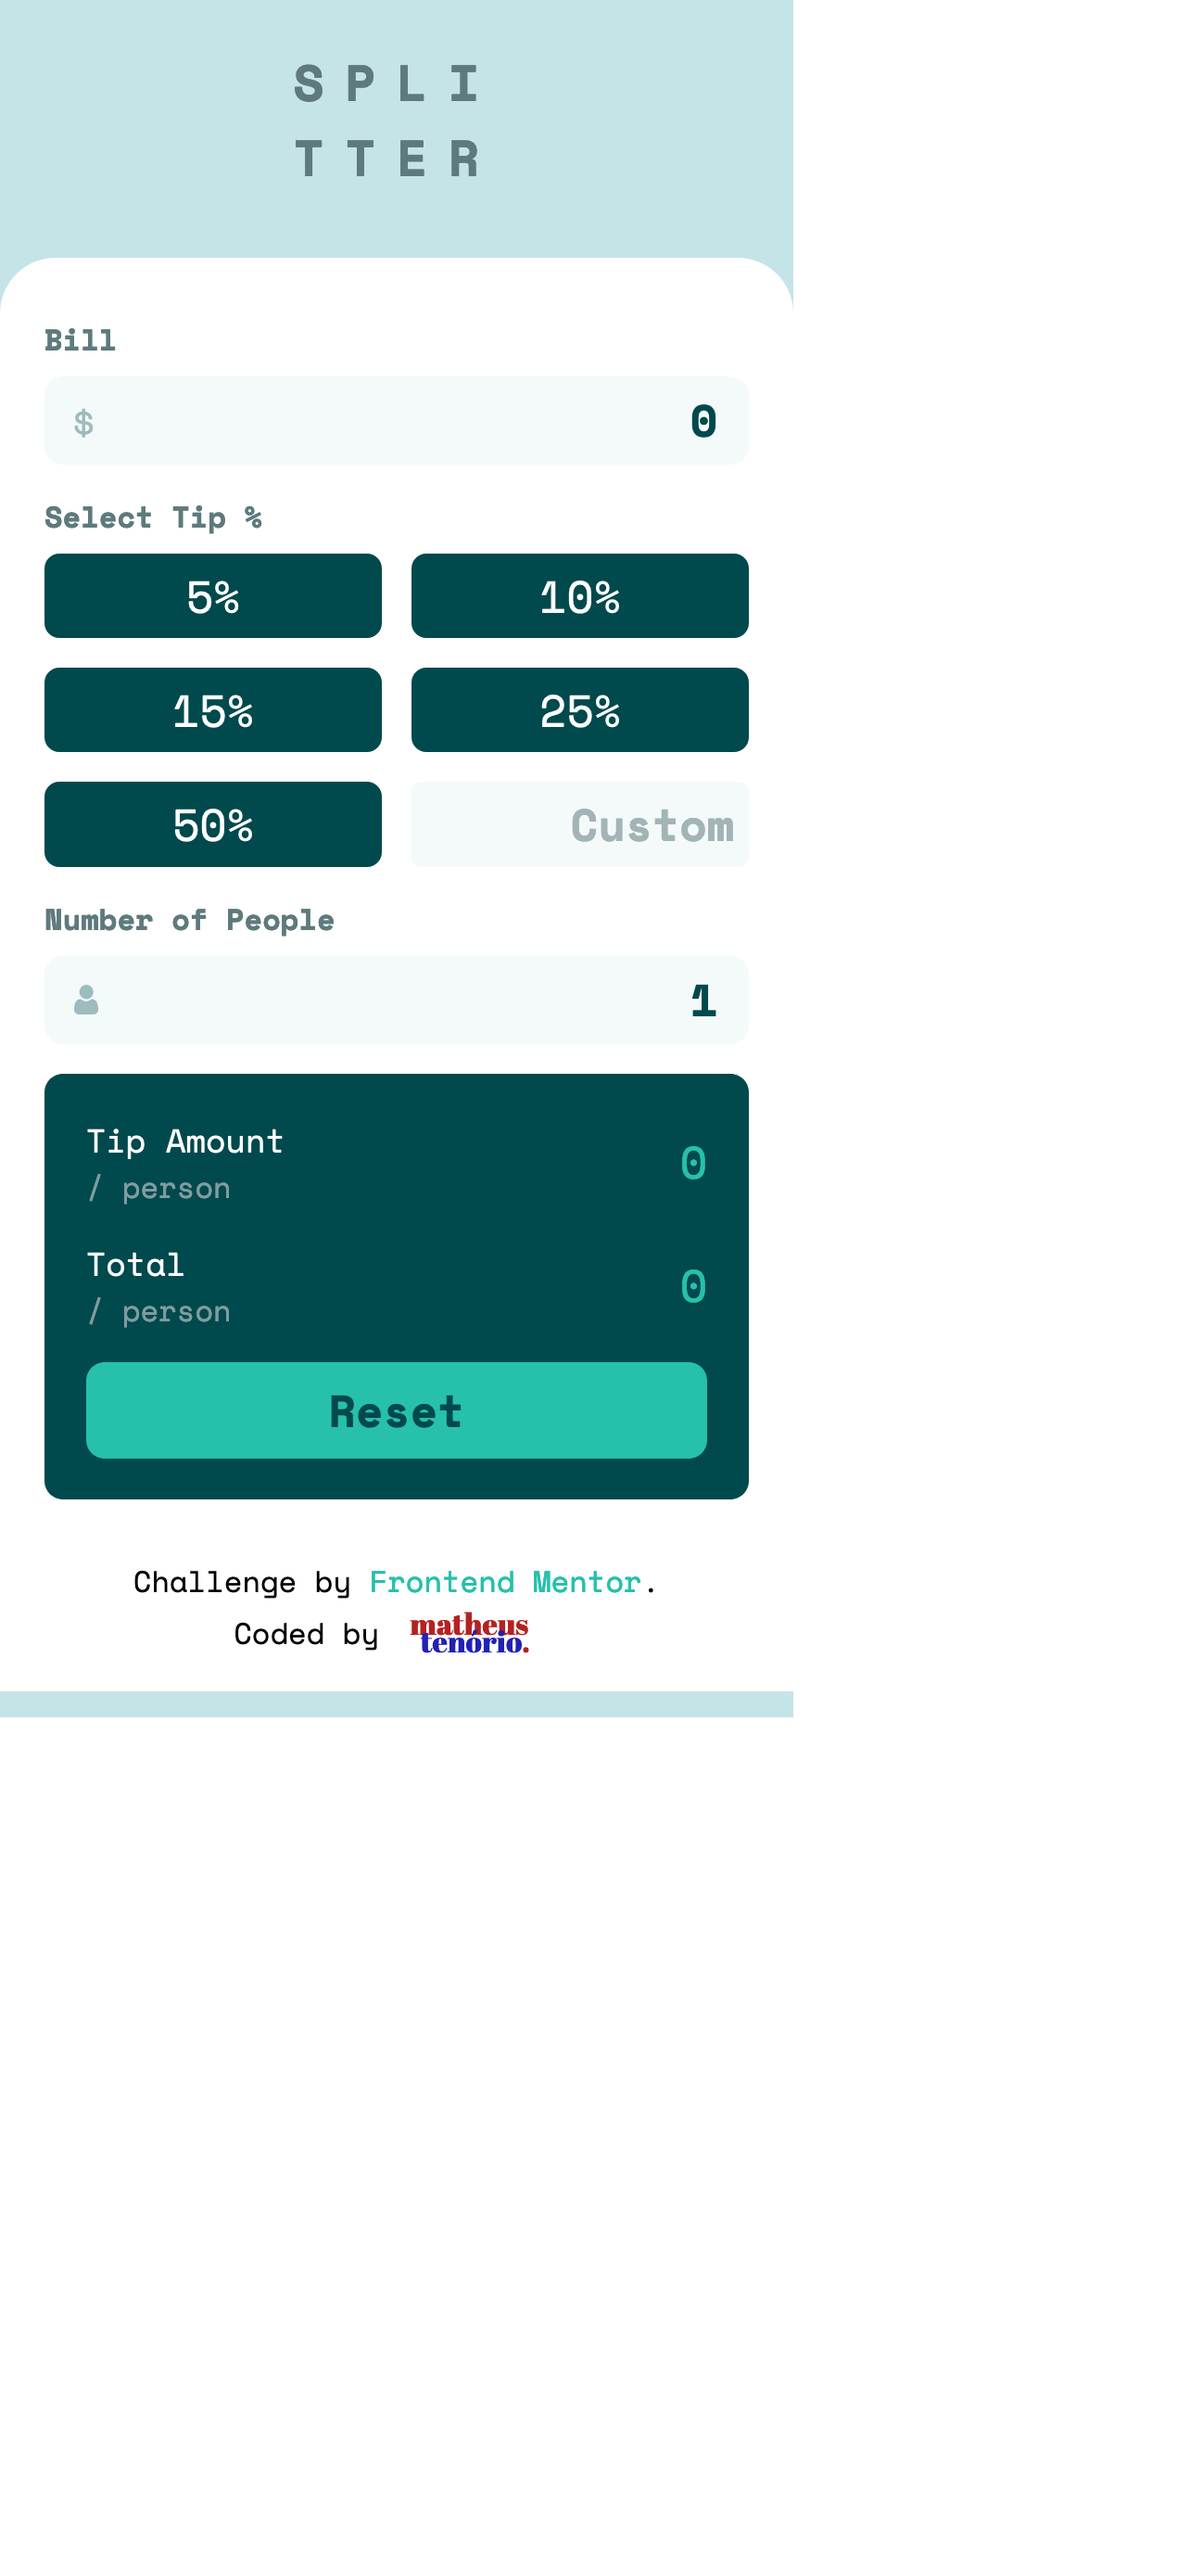
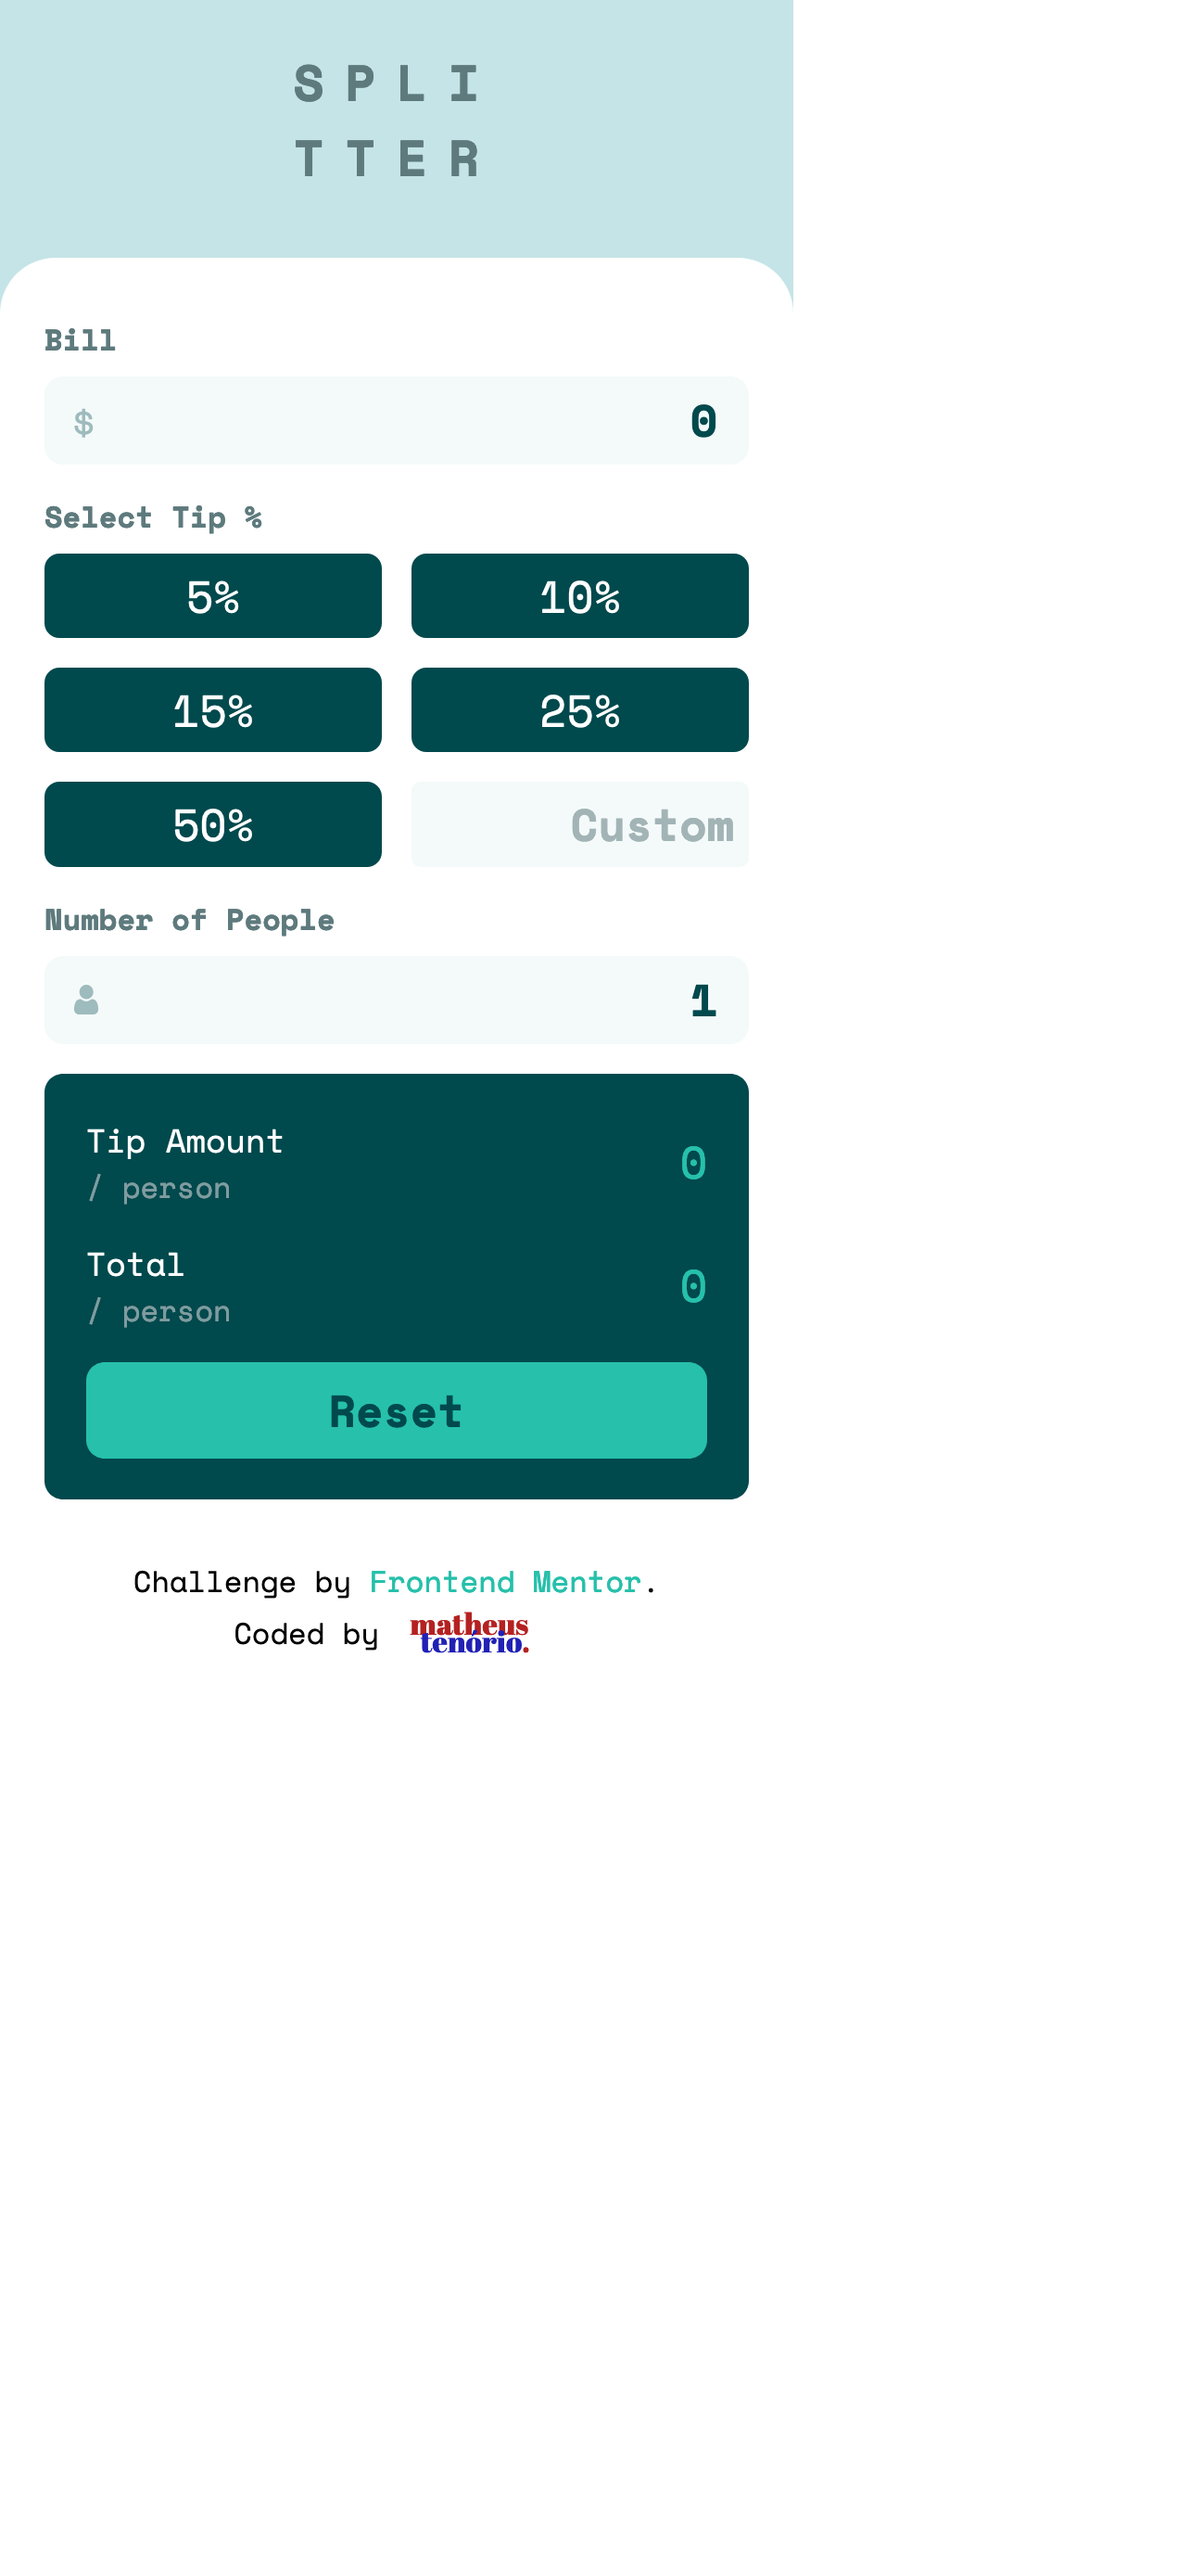
updated

Changed region(s): [[0.0, 0.6501, 0.6854, 0.6811]]

diff --git a/assets/styles/styles.css b/assets/styles/styles.css
@@ -19,6 +19,10 @@
   box-sizing: border-box;
 }
 
+html {
+  background-color: var(--white);
+}
+
 body {
   font-family: "Space Mono", sans-serif;
   background-color: var(--light-grayish-cyan);
